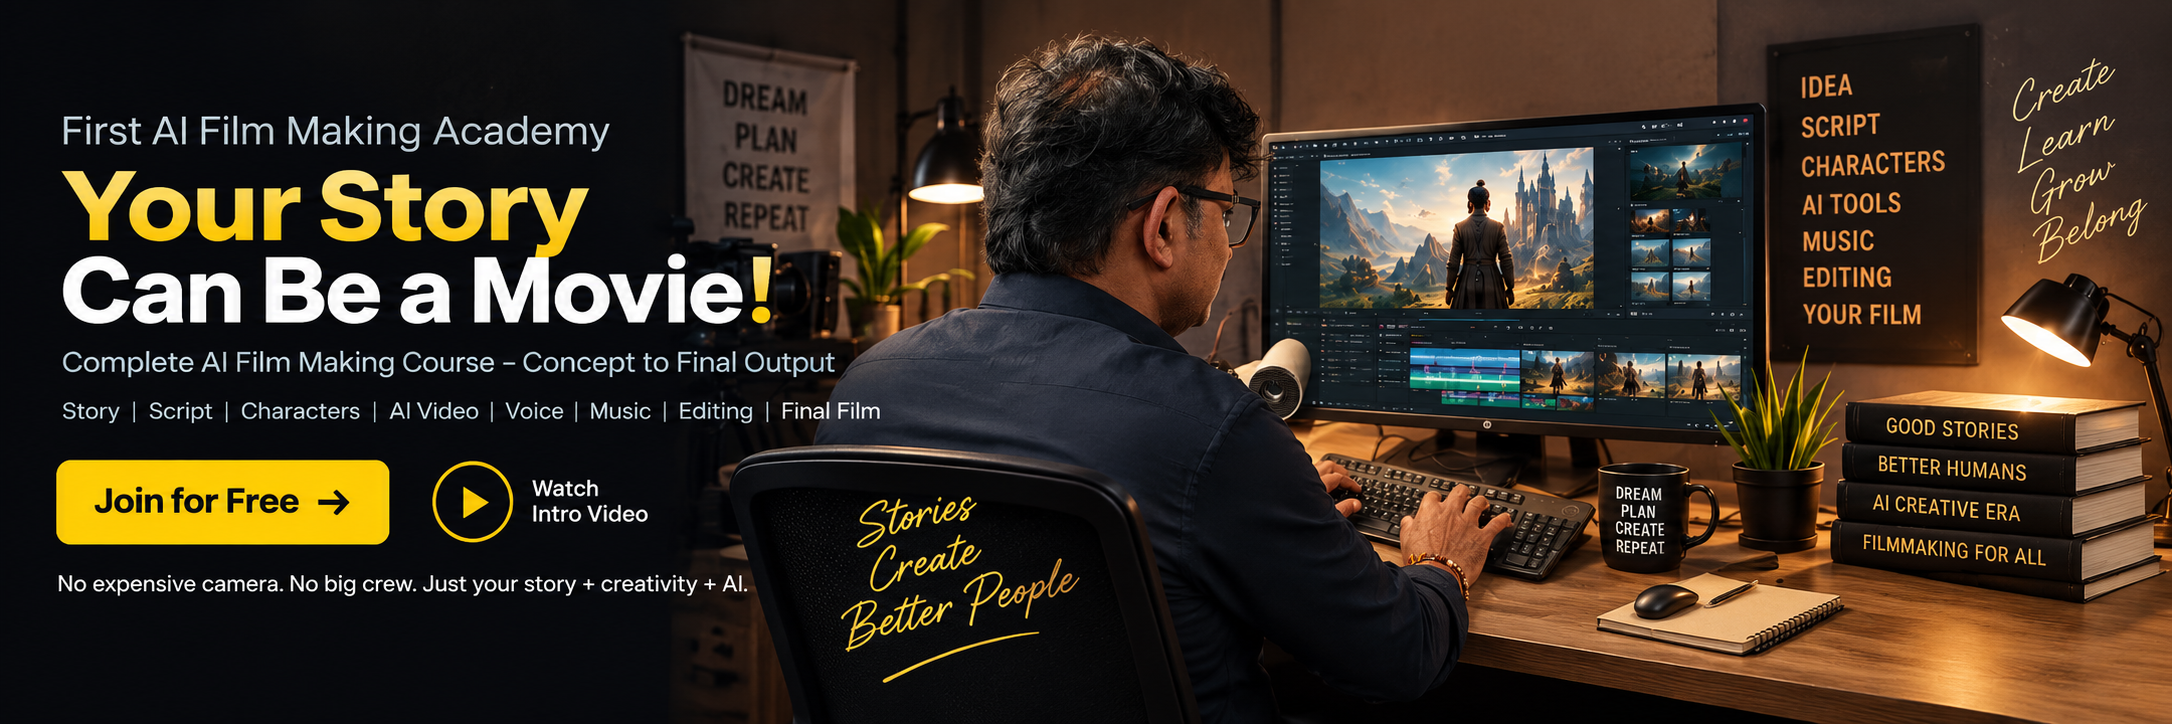
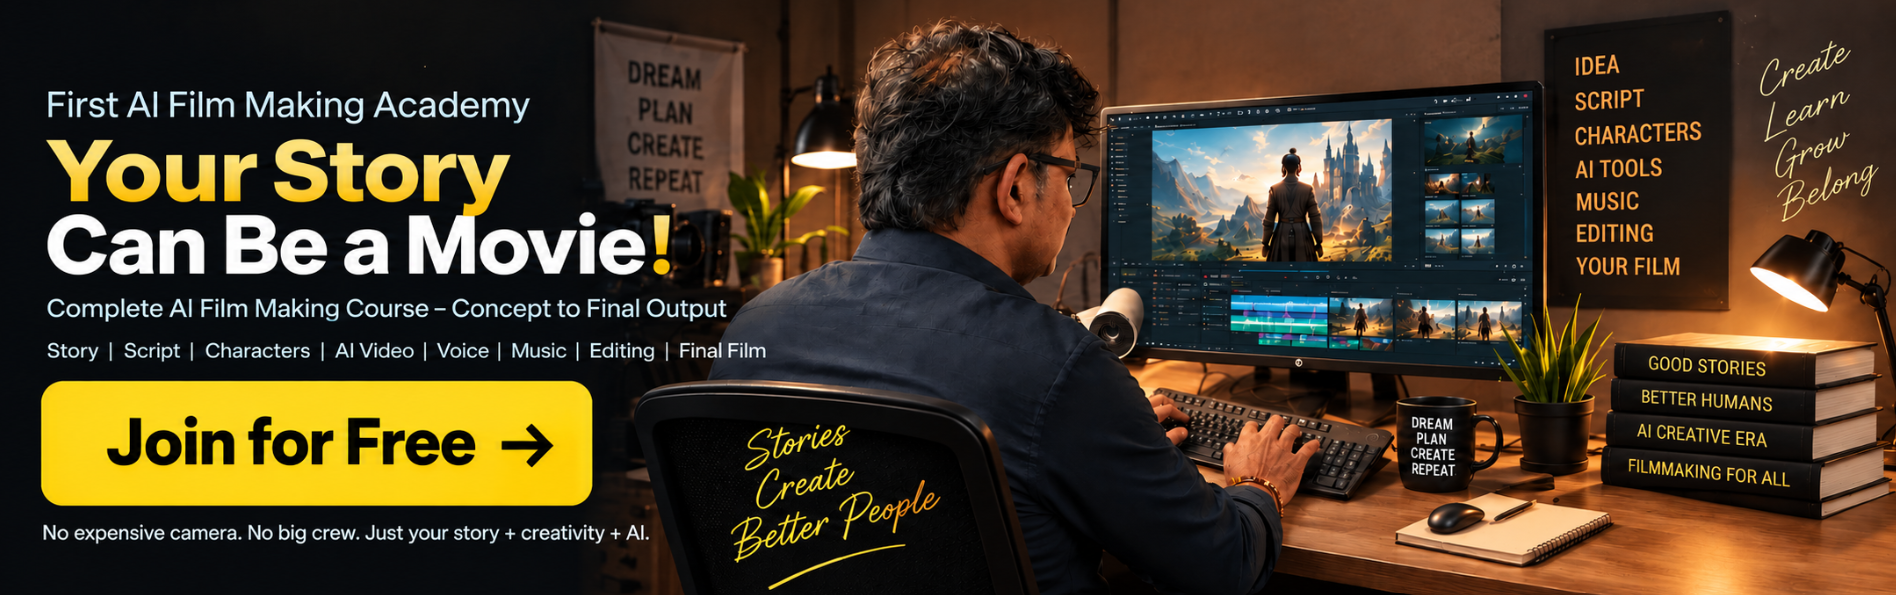
done.1

diff --git a/assets/css/section2.css b/assets/css/section2.css
@@ -39,8 +39,8 @@
 
 .feature-card {
   position: relative;
-  flex: 0 0 clamp(610px, 57vw, 840px);
-  width: clamp(610px, 57vw, 840px);
+  flex: 0 0 clamp(320px, 24vw, 400px);
+  width: clamp(320px, 24vw, 400px);
   min-width: 0;
   aspect-ratio: 4 / 3;
   padding: 14px 20px;
@@ -79,7 +79,7 @@
 }
 
 .card-one {
-  background-image: linear-gradient(rgb(247 249 252 / 0%), rgb(234 236 238 / 0%)), url(images/001.png);
+  background-image: linear-gradient(rgb(247 249 252 / 0%), rgb(234 236 238 / 0%)), url('images/001.png?123');
 }
 
 .card-two {
@@ -230,6 +230,15 @@
   .feature-card {
     flex-basis: clamp(520px, 82vw, 730px);
     width: clamp(520px, 82vw, 730px);
+  }
+}
+
+/* Desktop: fit exactly the first 3 cards in view; card 4 is reached by
+   scrolling the row */
+@media (min-width: 1200px) {
+  .feature-card {
+    flex: 0 0 calc((100% - 2 * 15px) / 3);
+    width: calc((100% - 2 * 15px) / 3);
   }
 }
 

diff --git a/assets/css/section1.css b/assets/css/section1.css
@@ -35,6 +35,12 @@
   isolation: isolate;
   overflow: hidden;
   background: var(--dark);
+  /* Overrides a legacy min-height:680px rule from responsive.css
+     (@media max-width:760px) left over from an older hero design.
+     The hero is now image-only, so its height must always come from
+     the image itself (via .hero-media { height: auto }), never from a
+     fixed min-height, or a gap appears below the image on mobile. */
+  min-height: 0;
 }
 
 .hero-media {
